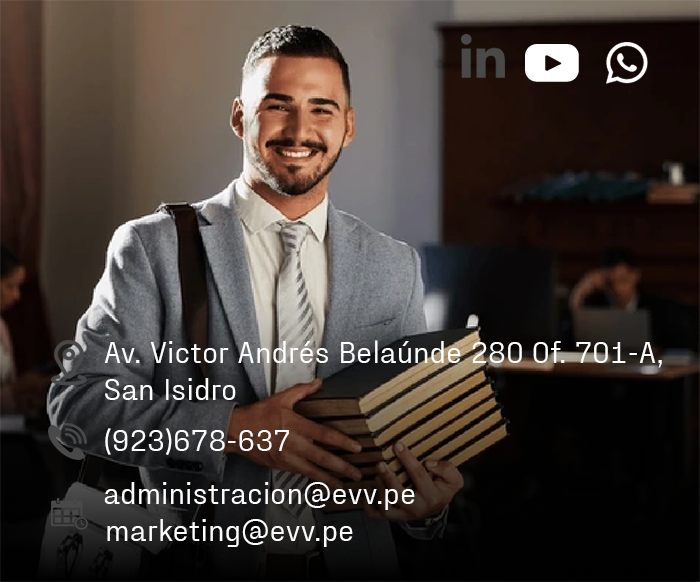
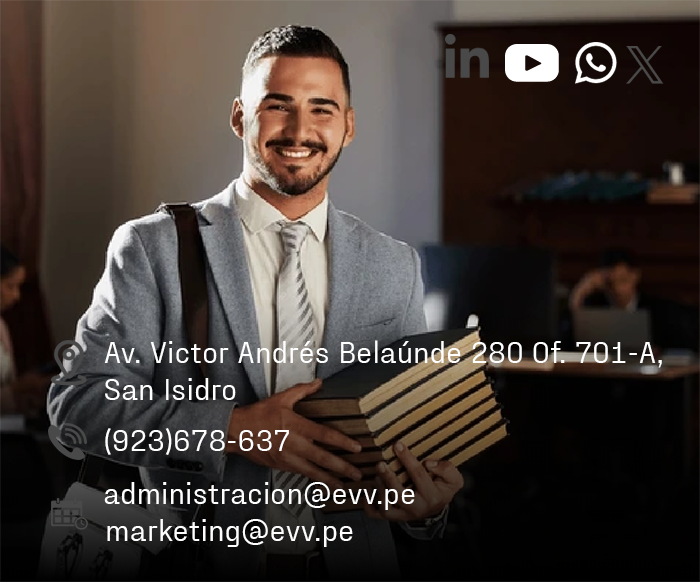
ajustes 1

Changed region(s): [[0.63, 0.0619, 0.96, 0.1546]]

diff --git a/src/app/layout/componentes/card-info/card-info.component.html b/src/app/layout/componentes/card-info/card-info.component.html
@@ -20,13 +20,26 @@
       </h2>
 
       <p
-        class="mb-8 block font-sans text-justify text-3xl font-normal leading-relaxed text-gray-500 antialiased"
+        class="mb-8 block font-sans text-justify text-xl leading-relaxed text-gray-500 antialiased"
       >
         Erick Valderrama ha sido socio del área laboral de Russell Bedford,
         Gerente del Área Legal y Office of the General Counsel (OGC) de PWC para
         el territorio de Sudamérica. Fue Socio líder de Miguel Mur Abogados
         desde 2015, y el responsable del Desarrollo de Estructuras de Inversión
         e Identificación de Oportunidades de Inversión Extranjera en el Perú.
+        Asimismo, ha estructurado y diseñado planes en la práctica laboral,
+        inmobiliaria, y contrataciones con el Estado, debido a sus buenas
+        relaciones con autoridades gubernamentales.
+      </p>
+      <p
+        class="mb-8 block font-sans text-justify text-xl leading-relaxed text-gray-500 antialiased"
+      >
+        Ha sido el asesor principal de más de 90 empresas extranjeras en el país
+        y ha liderado proyectos de inversión. Ha conformado directorios y es
+        consejero legal en el desarrollo de inversiones. Además, Erick ha
+        desarrollado Legal Compliance Scan, una herramienta tecnológica cuyo
+        objetivo es realizar el cumplimiento normativo de la Unidad de
+        Inteligencia Financiera en línea.
       </p>
     </div>
   </div>

diff --git a/src/app/layout/componentes/footer-logo/footer-logo.component.html b/src/app/layout/componentes/footer-logo/footer-logo.component.html
@@ -5,7 +5,7 @@
         <a href="#" class="flex items-center">
           <img
             src="assets/images/logo_blanco.png"
-            class="h-[100px] w-[600px]"
+            class="h-[70px] w-[600px]"
             alt=" Logo"
           />
         </a>
@@ -45,6 +45,34 @@
 
             <li class="mb-4">
               <a href="#" class="hover:underline">{{ correo2 }} </a>
+            </li>
+          </ul>
+        </div>
+        <div>
+          <ul class="">
+            <li class="mb-4">
+              <div class="flex gap-4">
+                <img
+                  src="assets/images/linkedin-blanco.png"
+                  class="w-7 hidden md:block pl-1"
+                  alt=""
+                />
+                <img
+                  src="assets/images/youtube-blanco.png"
+                  class="w-7 hidden md:block pl-1"
+                  alt=""
+                />
+                <img
+                  src="assets/images/whatsapp-blanco.png"
+                  class="w-7 hidden md:block pl-1"
+                  alt=""
+                />
+                <img
+                  src="assets/images/x-blanco.png"
+                  class="w-7 hidden md:block pl-1"
+                  alt=""
+                />
+              </div>
             </li>
           </ul>
         </div>

diff --git a/src/app/layout/componentes/banner-contenido-1/banner-contenido-1.component.html b/src/app/layout/componentes/banner-contenido-1/banner-contenido-1.component.html
@@ -3,13 +3,13 @@
 >
   <div class="px-10 max-w-[100%] md:max-w-[100%] text-center py-24 lg:py-80">
     <h3
-      class="mb-4 text-xl sm:text-4xl leading-none font-subtitulo text-white md:text-6xl lg:text-9xl"
+      class="mb-10 text-3xl sm:text-4xl leading-none font-subtitulo text-white md:text-4xl lg:text-7xl"
     >
       Líderes en soluciones legales
     </h3>
 
     <h3
-      class="mb-4 bg-black inline bg-opacity-50 p-5 text-sm sm:text-lg font-parrafo leading-none text-white md:text-4xl lg:text-6xl"
+      class="sm:my-10 bg-black inline bg-opacity-50 p-1 text-sm sm:text-lg font-parrafo leading-none text-white md:text-3xl lg:text-5xl"
     >
       Creatividad, innovación y excelencia.
     </h3>

diff --git a/src/app/layout/componentes/header-2/header-2.component.html b/src/app/layout/componentes/header-2/header-2.component.html
@@ -29,6 +29,7 @@
     class="w-4 hidden md:block pl-1"
     alt=""
   />
+  <img src="assets/images/x.png" class="w-4 hidden md:block pl-1" alt="" />
 
   <!-- <div
     class="flex mt-4 sm:justify-center md:mt-0 space-x-5 rtl:space-x-reverse"
